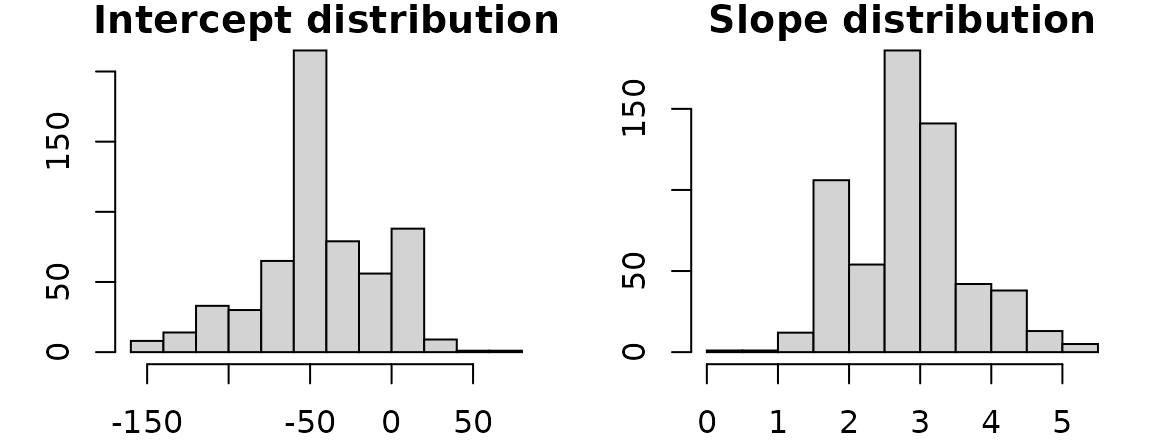
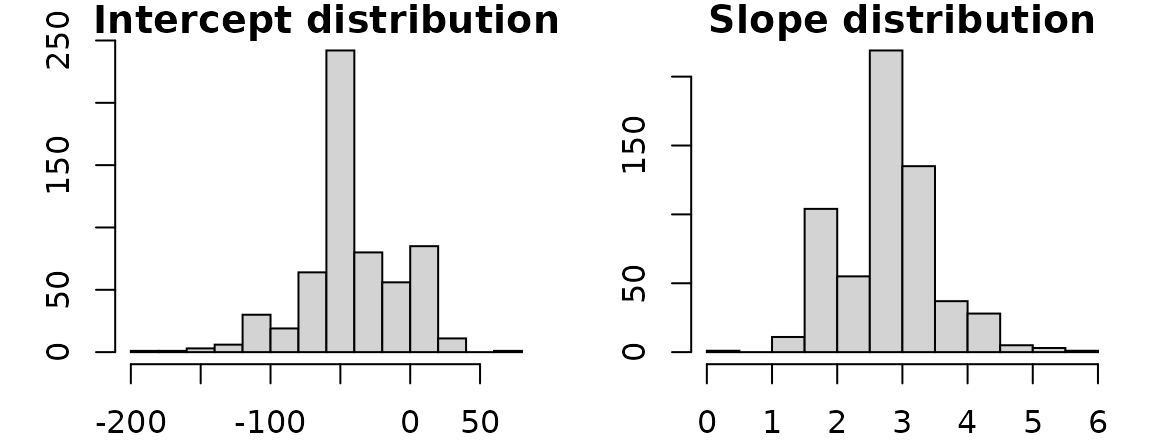
Built site for tukeyedar: 0.1.0@53c24ed

diff --git a/articles/RLine.html b/articles/RLine.html
@@ -286,9 +286,9 @@ median(y_{l,m,r} - b * x_{l,m,r})
 <code class="sourceCode R"><span class="va">conf</span> <span class="op">&lt;-</span> <span class="fu"><a href="https://rdrr.io/r/base/t.html">t</a></span><span class="op">(</span><span class="fu"><a href="https://rdrr.io/r/base/data.frame.html">data.frame</a></span><span class="op">(</span>Intercept <span class="op">=</span> <span class="fu"><a href="https://rdrr.io/r/stats/quantile.html">quantile</a></span><span class="op">(</span><span class="va">bt</span><span class="op">[</span>,<span class="fl">1</span><span class="op">]</span>, p<span class="op">=</span><span class="fu"><a href="https://rdrr.io/r/base/c.html">c</a></span><span class="op">(</span><span class="fl">0.05</span>,<span class="fl">0.95</span><span class="op">)</span> <span class="op">)</span>,
                      Slope <span class="op">=</span> <span class="fu"><a href="https://rdrr.io/r/stats/quantile.html">quantile</a></span><span class="op">(</span><span class="va">bt</span><span class="op">[</span>,<span class="fl">2</span><span class="op">]</span>, p<span class="op">=</span><span class="fu"><a href="https://rdrr.io/r/base/c.html">c</a></span><span class="op">(</span><span class="fl">0.05</span>,<span class="fl">0.95</span><span class="op">)</span> <span class="op">)</span><span class="op">)</span><span class="op">)</span>
 <span class="va">conf</span>
-<span class="co">#&gt;                    5%       95%</span>
-<span class="co">#&gt;  Intercept -73.827917 10.376778</span>
-<span class="co">#&gt;  Slope       1.705755  3.502802</span></code></pre></div>
+<span class="co">#&gt;                    5%      95%</span>
+<span class="co">#&gt;  Intercept -74.574729 8.808816</span>
+<span class="co">#&gt;  Slope       1.739383 3.516205</span></code></pre></div>
 </div>
 <div id="resampling-the-x-y-paired-values" class="section level3">
 <h3 class="hasAnchor">
@@ -314,8 +314,8 @@ median(y_{l,m,r} - b * x_{l,m,r})
                      Slope <span class="op">=</span> <span class="fu"><a href="https://rdrr.io/r/stats/quantile.html">quantile</a></span><span class="op">(</span><span class="va">bt</span><span class="op">[</span>,<span class="fl">2</span><span class="op">]</span>, p<span class="op">=</span><span class="fu"><a href="https://rdrr.io/r/base/c.html">c</a></span><span class="op">(</span><span class="fl">0.05</span>,<span class="fl">0.95</span><span class="op">)</span> <span class="op">)</span><span class="op">)</span><span class="op">)</span>
 <span class="va">conf</span>
 <span class="co">#&gt;                     5%       95%</span>
-<span class="co">#&gt;  Intercept -116.523077 12.801293</span>
-<span class="co">#&gt;  Slope        1.643678  4.338462</span></code></pre></div>
+<span class="co">#&gt;  Intercept -106.711340 12.983314</span>
+<span class="co">#&gt;  Slope        1.643678  4.157895</span></code></pre></div>
 </div>
 </div>
 <div id="references" class="section level1">
